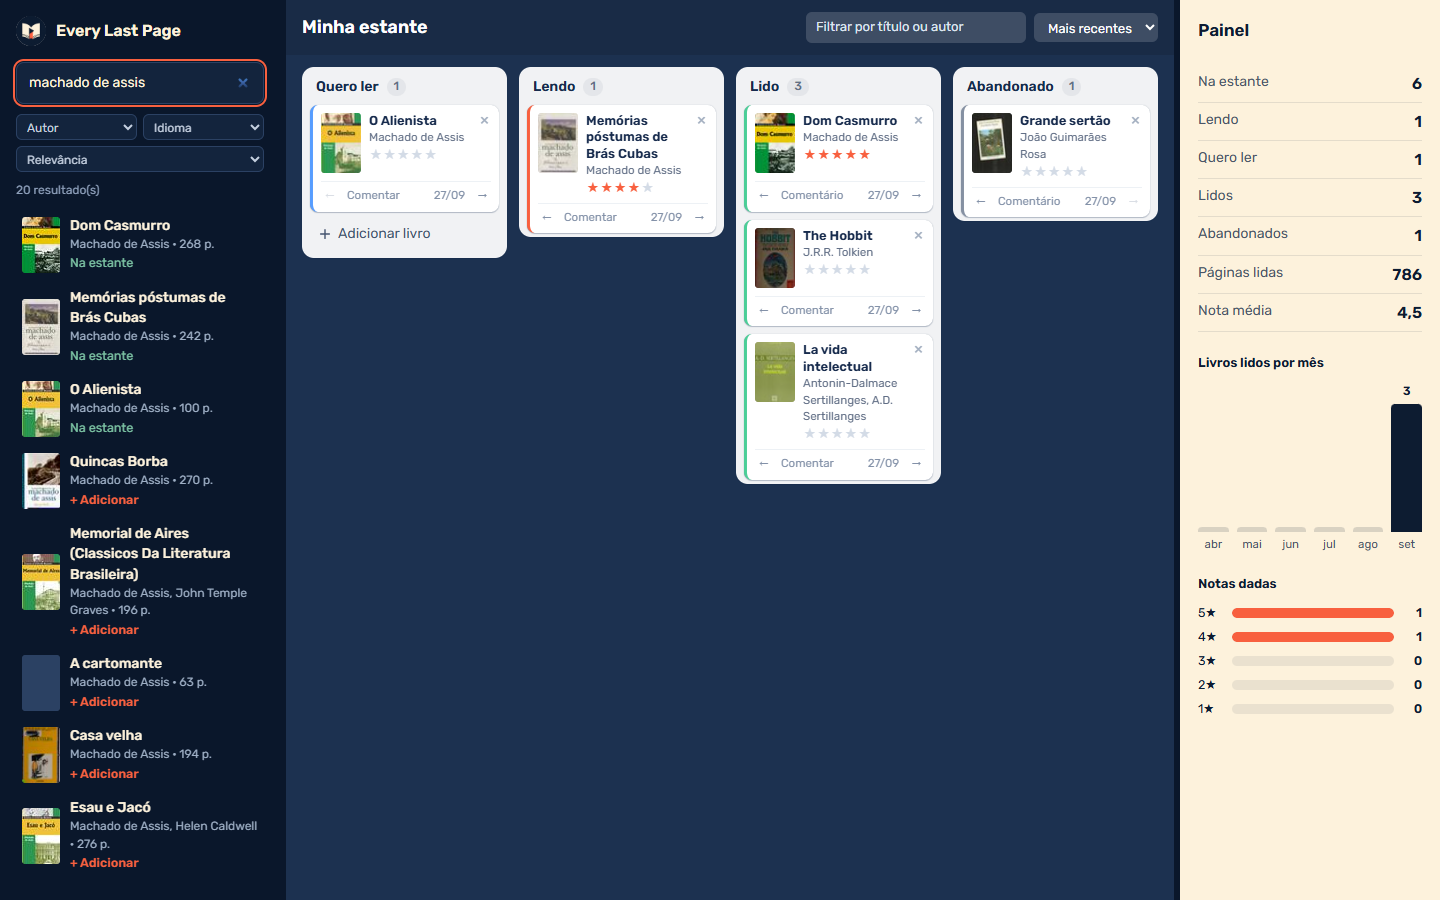
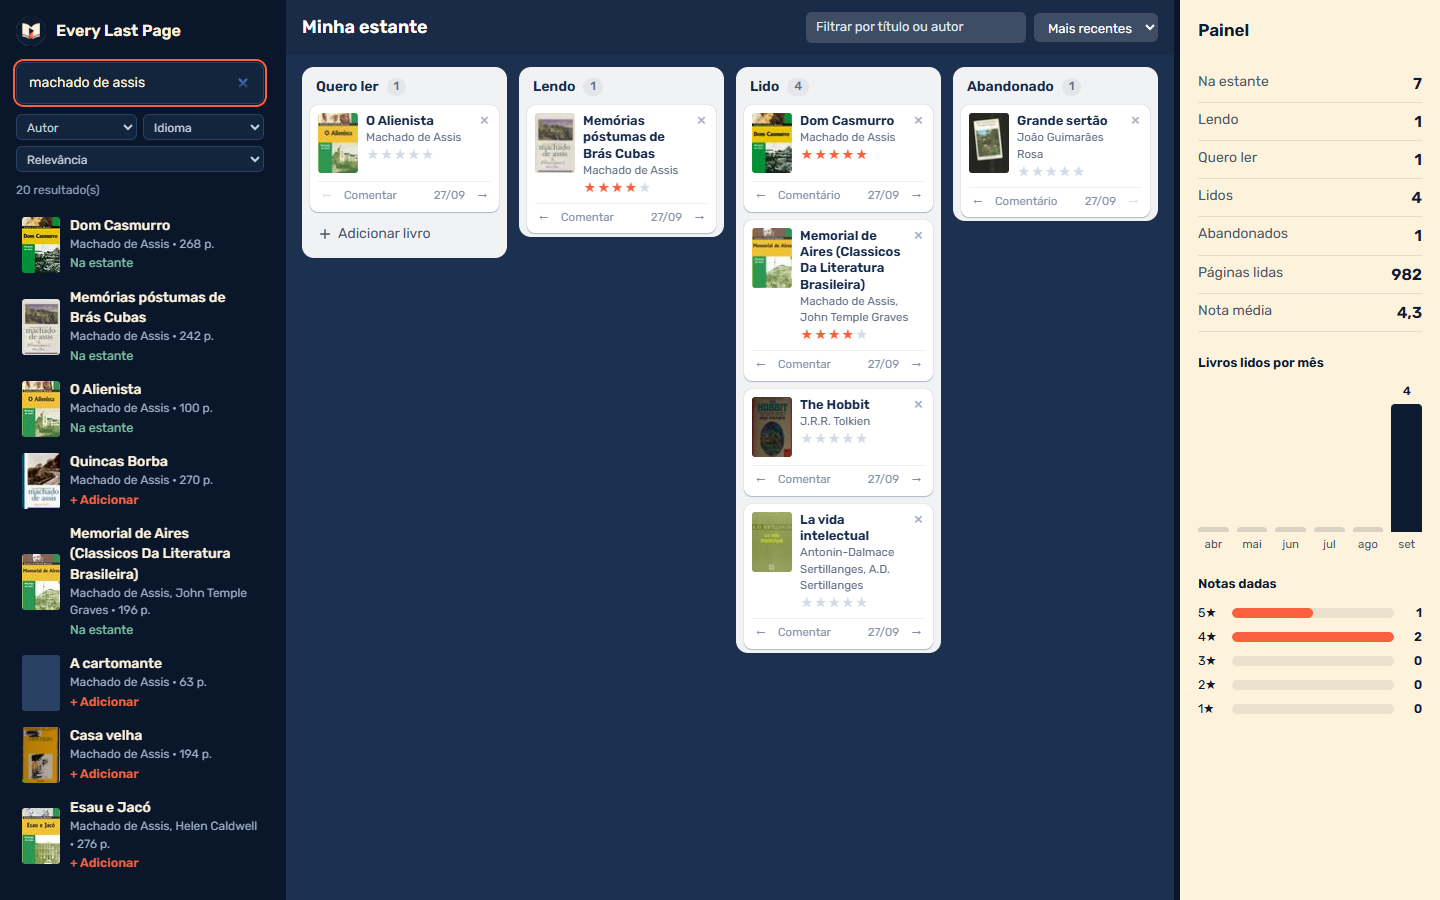
Toast sem listra lateral, README e captura atualizados

diff --git a/css/style.css b/css/style.css
@@ -179,9 +179,10 @@ button, input, select, textarea { font: inherit; color: inherit; }
 /* ── Mensagens de estado ── */
 .toast { position: fixed; left: 50%; bottom: 18px; transform: translate(-50%, 16px); background: var(--navy-900); color: var(--cream); padding: 9px 16px; border-radius: 8px; opacity: 0; pointer-events: none; transition: opacity .2s, transform .2s; z-index: 10; }
 .toast.show { opacity: 1; transform: translate(-50%, 0); }
-.toast.ok { box-shadow: inset 3px 0 0 var(--read); }
+.toast::before { content: ""; display: inline-block; width: 8px; height: 8px; border-radius: 50%; margin-right: 8px; vertical-align: 1px; background: var(--dot, transparent); }
+.toast.ok { --dot: var(--read); }
 .toast.error { background: #8f2b1a; }
-.toast.loading { box-shadow: inset 3px 0 0 var(--coral); }
+.toast.loading { --dot: var(--coral); }
 
 @media (prefers-reduced-motion: reduce) { * { transition: none !important; animation: none !important; } }
 

diff --git a/README.md b/README.md
@@ -56,8 +56,9 @@ tudo, use `docker compose down -v`.
 | Buscar livros, filtrando por campo (título, autor, ISBN), idioma e ordem | `GET /books/search?q=&field=&language=&sort=` |
 | Adicionar à estante | `POST /shelf` |
 | Mostrar o quadro com as listas Quero ler, Lendo, Lido e Abandonado, com filtro por texto e ordenação | `GET /shelf?order=` |
-| Arrastar o cartão para outra lista (ou usar ← e →), dar nota de 1 a 5 nas estrelas e comentar, no próprio cartão | `PUT /shelf/{id}` |
-| Remover da estante pelo × do cartão | `DELETE /shelf/{id}` |
+| Arrastar o cartão para outra lista (ou usar ← e →) e dar nota nas estrelas do cartão | `PUT /shelf/{id}` |
+| Abrir o cartão na ficha lateral: trocar o status, dar nota, editar as datas de início e conclusão e escrever o comentário | `PUT /shelf/{id}` |
+| Remover da estante pelo × do cartão ou pela ficha | `DELETE /shelf/{id}` |
 | Painel: contagem por status, páginas lidas, nota média, livros lidos por mês e distribuição das notas | `GET /shelf/summary` |
 
 Cada chamada mostra o estado (carregando, sucesso ou erro). A largura das três colunas se ajusta
@@ -102,6 +103,7 @@ js/icons.js         ícones em SVG
 js/layout.js        largura ajustável das colunas
 js/search.js        busca com filtros e adição
 js/board.js         quadro, cartões e arrastar e soltar
+js/sheet.js         ficha lateral do livro
 js/panel.js         painel
 img/logo.png        ícone do projeto
 fonts/              fonte Rubik (woff2) e licença
